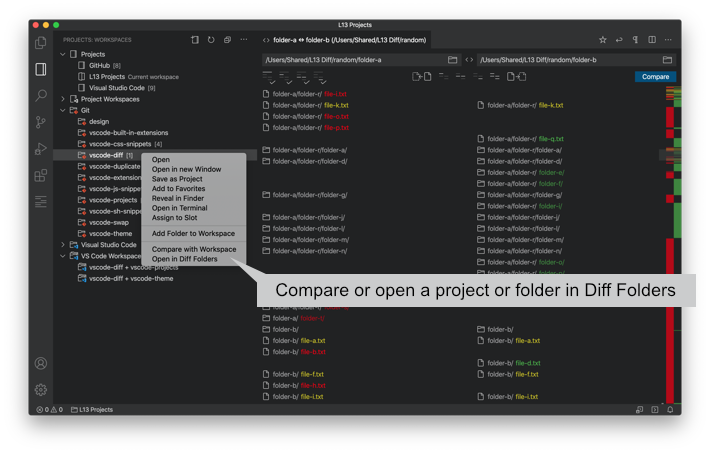
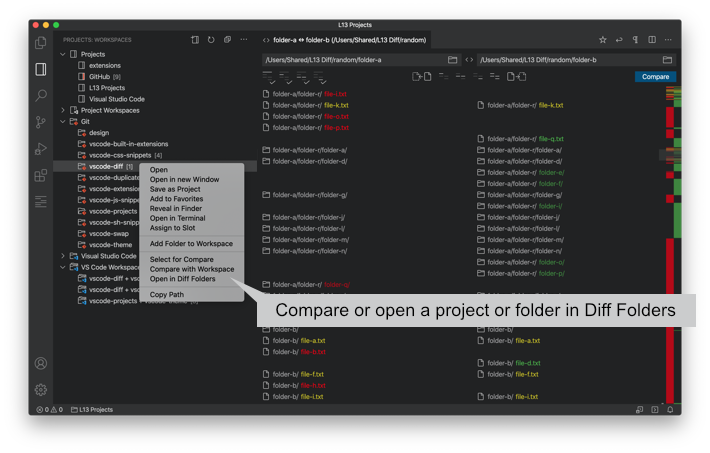
- fixed delete and add to favorites - changed preview images - some refactoring - some typo

Changed region(s): [[0.062, 0.1236, 0.9915, 0.7417]]

diff --git a/src/sidebar/WorkspacesProvider.ts b/src/sidebar/WorkspacesProvider.ts
@@ -5,6 +5,7 @@ import * as path from 'path';
 import * as vscode from 'vscode';
 
 import { sortCaseInsensitive } from '../@l13/arrays';
+import { formatLabel } from '../@l13/formats';
 import { walktree } from '../@l13/fse';
 
 import { File, Options } from '../@types/files';
@@ -255,7 +256,7 @@ export class WorkspacesProvider implements vscode.TreeDataProvider<TreeItems> {
 					for (const file of Object.values(files)) {
 						const pathname = file.type === 'file' ? file.path : path.dirname(file.path);
 						detectedProjects.push({
-							label: path.basename(pathname, '.code-workspace'),
+							label: formatLabel(pathname),
 							path: pathname,
 							type,
 						});
@@ -438,7 +439,7 @@ export class WorkspacesProvider implements vscode.TreeDataProvider<TreeItems> {
 	private addUnknownItem (list:TreeItems[], workspacePath:string) {
 		
 		list.unshift(new UnknownProjectTreeItem({
-			label: path.basename(workspacePath, '.code-workspace'),
+			label: formatLabel(workspacePath),
 			path: workspacePath,
 			type: settings.isCodeWorkspace(workspacePath) ? 'folders' : 'folder',
 		}));
@@ -474,6 +475,26 @@ export class WorkspacesProvider implements vscode.TreeDataProvider<TreeItems> {
 		} else this.addItems(list, workspacePath);
 		
 		return Promise.resolve(list);
+		
+	}
+	
+	// private hasWorkspace (fsPath:string) {
+		
+	// 	for (const project of this.cache) {
+	// 		if (project.path === fsPath) return true;
+	// 	}
+		
+	// 	return false;
+		
+	// }
+	
+	private getWorkspace (fsPath:string) {
+		
+		for (const project of this.cache) {
+			if (project.path === fsPath) return project;
+		}
+		
+		return null;
 		
 	}
 	
@@ -536,7 +557,7 @@ export class WorkspacesProvider implements vscode.TreeDataProvider<TreeItems> {
 			
 			if (stat.isDirectory() || stat.isFile() && settings.isCodeWorkspace(path.basename(fsPath))) return true;
 			
-			vscode.window.showErrorMessage(`'${fsPath}' is not a folder or a ".code-workspace" file!`);
+			vscode.window.showErrorMessage(`"${fsPath}" is not a folder or a ".code-workspace" file!`);
 			
 			return false;
 			
@@ -546,7 +567,7 @@ export class WorkspacesProvider implements vscode.TreeDataProvider<TreeItems> {
 			
 			if (projects.some(({ path }) => path === fsPath)) return;
 			
-			saveProject(projects, fsPath, path.basename(fsPath, '.code-workspace'));
+			saveProject(projects, fsPath, formatLabel(fsPath));
 			
 		});
 		
@@ -570,7 +591,7 @@ export class WorkspacesProvider implements vscode.TreeDataProvider<TreeItems> {
 			}
 			
 			const value = await vscode.window.showInputBox({
-				value: path.basename(fsPath, '.code-workspace'),
+				value: formatLabel(fsPath),
 				placeHolder: 'Please enter a name for the project',
 			});
 			
@@ -629,9 +650,7 @@ export class WorkspacesProvider implements vscode.TreeDataProvider<TreeItems> {
 	
 	public static async removeProject (context:vscode.ExtensionContext, project:Project) {
 		
-		const value = await dialogs.confirm(`Delete project "${project.label}"?`, 'Delete');
-		
-		if (value) {
+		if (await dialogs.confirm(`Delete project "${project.label}"?`, 'Delete')) {
 			
 			const projects:Project[] = context.globalState.get(PROJECTS) || [];
 			const fsPath = project.path;
@@ -640,16 +659,11 @@ export class WorkspacesProvider implements vscode.TreeDataProvider<TreeItems> {
 				if (projects[i].path === fsPath) {
 					projects.splice(i, 1);
 					context.globalState.update(PROJECTS, projects);
-					const provider = WorkspacesProvider.createProvider(context);
+					if (project.color) settings.updateStatusBarColorSettings(project.path, colors[0]);
+					const provider = WorkspacesProvider.currentProvider;
 					provider.refresh();
-					for (const pro of provider.cache) {
-						if (pro.path === fsPath) {
-							WorkspacesProvider._onDidChangeProject.fire(pro);
-							return;
-						}
-					}
-					project.label = path.basename(fsPath, '.code-workspace');
-					project.type = settings.isCodeWorkspace(fsPath) ? 'folders' : 'folder';
+					project.removed = true;
+					project = provider.getWorkspace(fsPath) || project;
 					WorkspacesProvider._onDidChangeProject.fire(project);
 					return;
 				}

diff --git a/src/sidebar/FavoritesProvider.ts b/src/sidebar/FavoritesProvider.ts
@@ -112,27 +112,38 @@ export class FavoritesProvider implements vscode.TreeDataProvider<TreeItems> {
 			return vscode.window.showErrorMessage(`Project "${project.label}" exists in favorites!`);
 		}
 		
-		favorites.push({ label: project.label, path: project.path, type: project.type });
+		favorites.push({
+			label: project.label,
+			path: project.path,
+			type: project.type,
+			color: project.color,
+		});
+		
 		favorites.sort(({ label:a}, { label:b }) => sortCaseInsensitive(a, b));
 		
 		context.globalState.update(FAVORITES, favorites);
 		
-		vscode.window.showInformationMessage(`Added "${project.label} to favorites."`);
+		vscode.window.showInformationMessage(`Added "${project.label}" to favorites`);
 		
 		FavoritesProvider.currentProvider?.refresh();
 		
 	}
 	
-	public static updateFavorite (context:vscode.ExtensionContext, { color, path, label, type }:Project) {
+	public static updateFavorite (context:vscode.ExtensionContext, project:Project) {
 		
 		const favorites:Project[] = getFavorites(context);
+		const fsPath = project.path;
 		
-		for (const favorite of favorites) {
-			if (favorite.path === path) {
-				favorite.label = label;
-				favorite.type = type;
-				favorite.color = color;
-				favorites.sort(({ label:a}, { label:b }) => sortCaseInsensitive(a, b));
+		for (let i = 0; i < favorites.length; i++) {
+			const favorite = favorites[i];
+			if (favorite.path === fsPath) {
+				if (!project.removed) {
+					const type = favorite.type = project.type;
+					if (type === 'folder' || type === 'folders') favorite.color = project.color;
+					else delete favorite.color;
+					favorite.label = project.label;
+					favorites.sort(({ label:a}, { label:b }) => sortCaseInsensitive(a, b));
+				} else favorites.splice(i, 1);
 				context.globalState.update(FAVORITES, favorites);
 				FavoritesProvider.currentProvider?.refresh();
 				break;
@@ -157,7 +168,7 @@ export class FavoritesProvider implements vscode.TreeDataProvider<TreeItems> {
 	
 	public static async removeFavorite (context:vscode.ExtensionContext, favorite:Project) {
 		
-		if (await dialogs.confirm(`Remove favorite "${favorite.label}"?`, 'Remove')) {
+		if (await dialogs.confirm(`Delete favorite "${favorite.label}"?`, 'Delete')) {
 			const favorites:Project[] = getFavorites(context);
 			
 			for (let i = 0; i < favorites.length; i++) {

diff --git a/src/statusbar/StatusBar.ts b/src/statusbar/StatusBar.ts
@@ -1,9 +1,10 @@
 //	Imports ____________________________________________________________________
 
-import { basename } from 'path';
 import * as vscode from 'vscode';
 
+import { formatLabel } from '../@l13/formats';
 import { isMacOs, isWindows } from '../@l13/platforms';
+
 import { Project } from '../@types/workspaces';
 
 import * as settings from '../common/settings';
@@ -46,7 +47,7 @@ export class StatusBar {
 			const icon = settings.isCodeWorkspace(workspacePath) ? 'submodule' : 'directory';
 			const name:string = this.getProjectName('projects', workspacePath) || this.getProjectName('favorites', workspacePath);
 			
-			this.statusBarItem.text = `$(file-${icon}) ${name || basename(workspacePath, '.code-workspace')}`;
+			this.statusBarItem.text = `$(file-${icon}) ${name || formatLabel(workspacePath)}`;
 		}
 		
 	}

diff --git a/src/@l13/formats.ts b/src/@l13/formats.ts
@@ -1,0 +1,22 @@
+//	Imports ____________________________________________________________________
+
+import { basename } from 'path';
+
+//	Variables __________________________________________________________________
+
+
+
+//	Initialize _________________________________________________________________
+
+
+
+//	Exports ____________________________________________________________________
+
+export function formatLabel (value:string) {
+	
+	return basename(value, '.code-workspace');
+	
+}
+
+//	Functions __________________________________________________________________
+

diff --git a/src/features/HotkeySlots.ts b/src/features/HotkeySlots.ts
@@ -90,8 +90,13 @@ export class HotkeySlots {
 		
 		const slots = this.slots;
 		
-		for (const slot of slots) {
-			if (slot?.path === project.path) slots[slot.index].label = project.label;
+		for (let i = 0; i < slots.length; i++) {
+			const slot = slots[i];
+			if (slot?.path === project.path) {
+				if (!project.removed) slots[slot.index].label = project.label;
+				else delete slots[i];
+				break;
+			}
 		}
 		
 		this.context.globalState.update(SLOTS, slots);

diff --git a/src/@types/workspaces.ts b/src/@types/workspaces.ts
@@ -27,6 +27,7 @@ export type Project = {
 	label:string,
 	type:'folder'|'folders'|'git'|'vscode'|'workspace',
 	color?:number,
+	removed?:boolean,
 	deleted?:boolean,
 };
 

diff --git a/CHANGELOG.md b/CHANGELOG.md
@@ -7,11 +7,9 @@ All notable changes to the "Projects" extension will be documented in this file.
 - Added colors for projects. Change icon and status bar color to 7 different colors.
 - Added `Copy Path` to context menu for folders, projects and workspaces.
 
-### Changed
-- Changed wording `Delete` to `Remove` for favorites.
-
 ### Fixed
 - Fixed `Projects: Go to previous Workspace` if keyboard shortcut was pressed multiple times fast.
+- Fixed `Delete` in workspaces for favorites if project still exists as git repository, vscode folder or vscode workspace.
 
 ## [0.14.1] - 2020-07-05
 

diff --git a/README.md b/README.md
@@ -48,7 +48,7 @@ Manage your workspaces and projects in Visual Studio Code.
 
 ![Projects Colors](images/previews/preview-colors.png)
 
-![Projects Colors](images/previews/preview-statusbar.png)
+![Projects Status Bar Colors](images/previews/preview-statusbar.png)
 
 ### Supports the extension [Diff Folders](https://marketplace.visualstudio.com/items?itemName=L13RARY.l13-diff)
 
